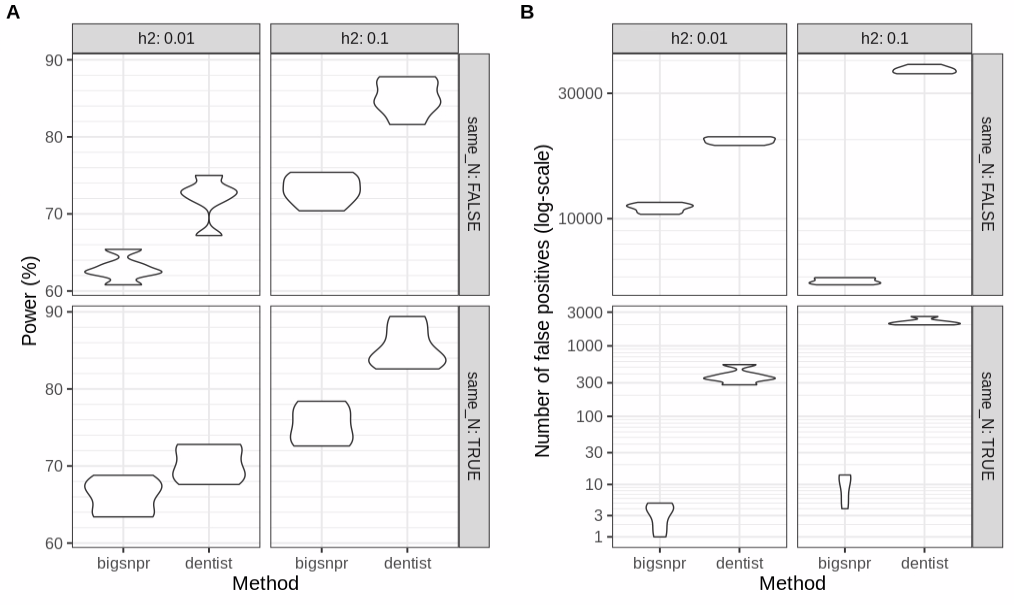
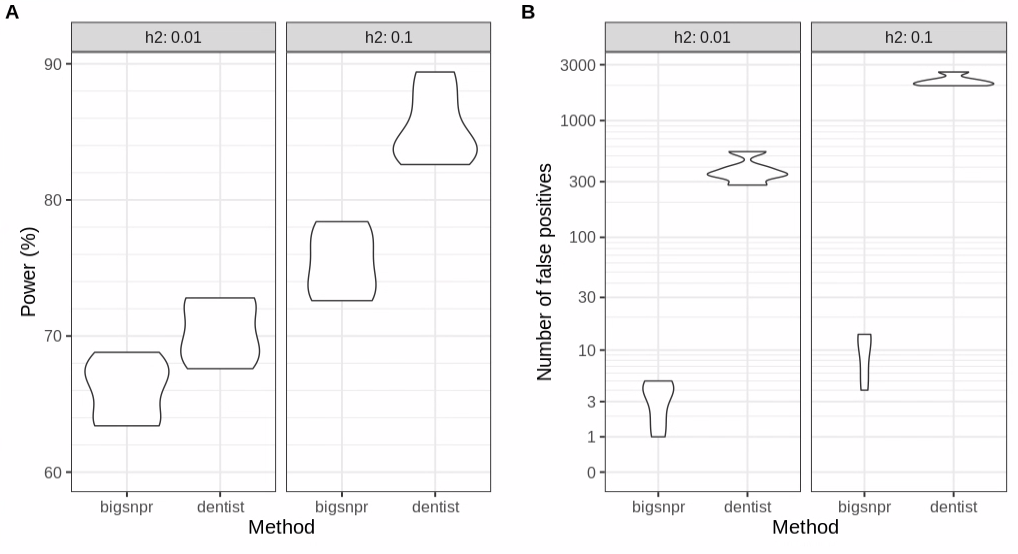
only 356K

diff --git a/qc-imp.html b/qc-imp.html
@@ -312,10 +312,12 @@ Other details:
 
 - Use 145K variants on chromosome 22 with MAF &gt; 0.005 and INFO &gt; 0.8
 - Simulate some phenotype with h2=0.01 or 0.1 and polygenicity of 0.01
-- Compute the GWAS summary statistics using 356K or 200K individuals
+- Compute the GWAS summary statistics using 356K individuals
 - For 500 variants at random, assign them an opposite effect (allelic error)
 
 --
+
+&lt;br&gt;
 
 &lt;img src="figures/simus-qc.png" width="92%" style="display: block; margin: auto;" /&gt;
 
